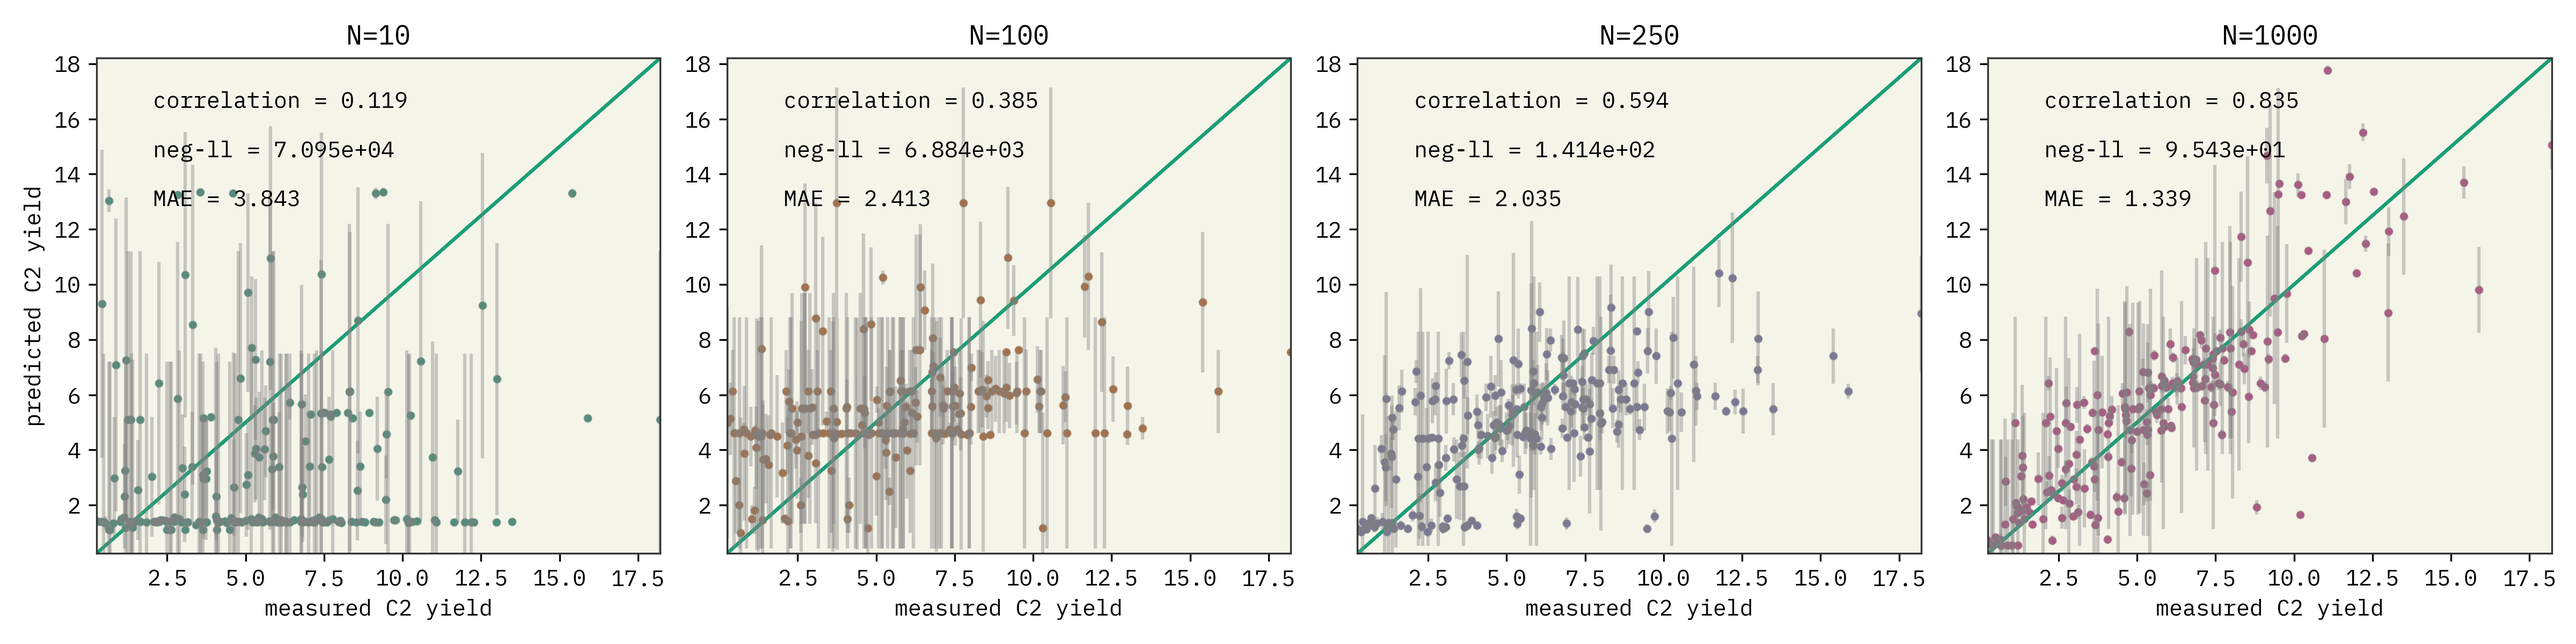
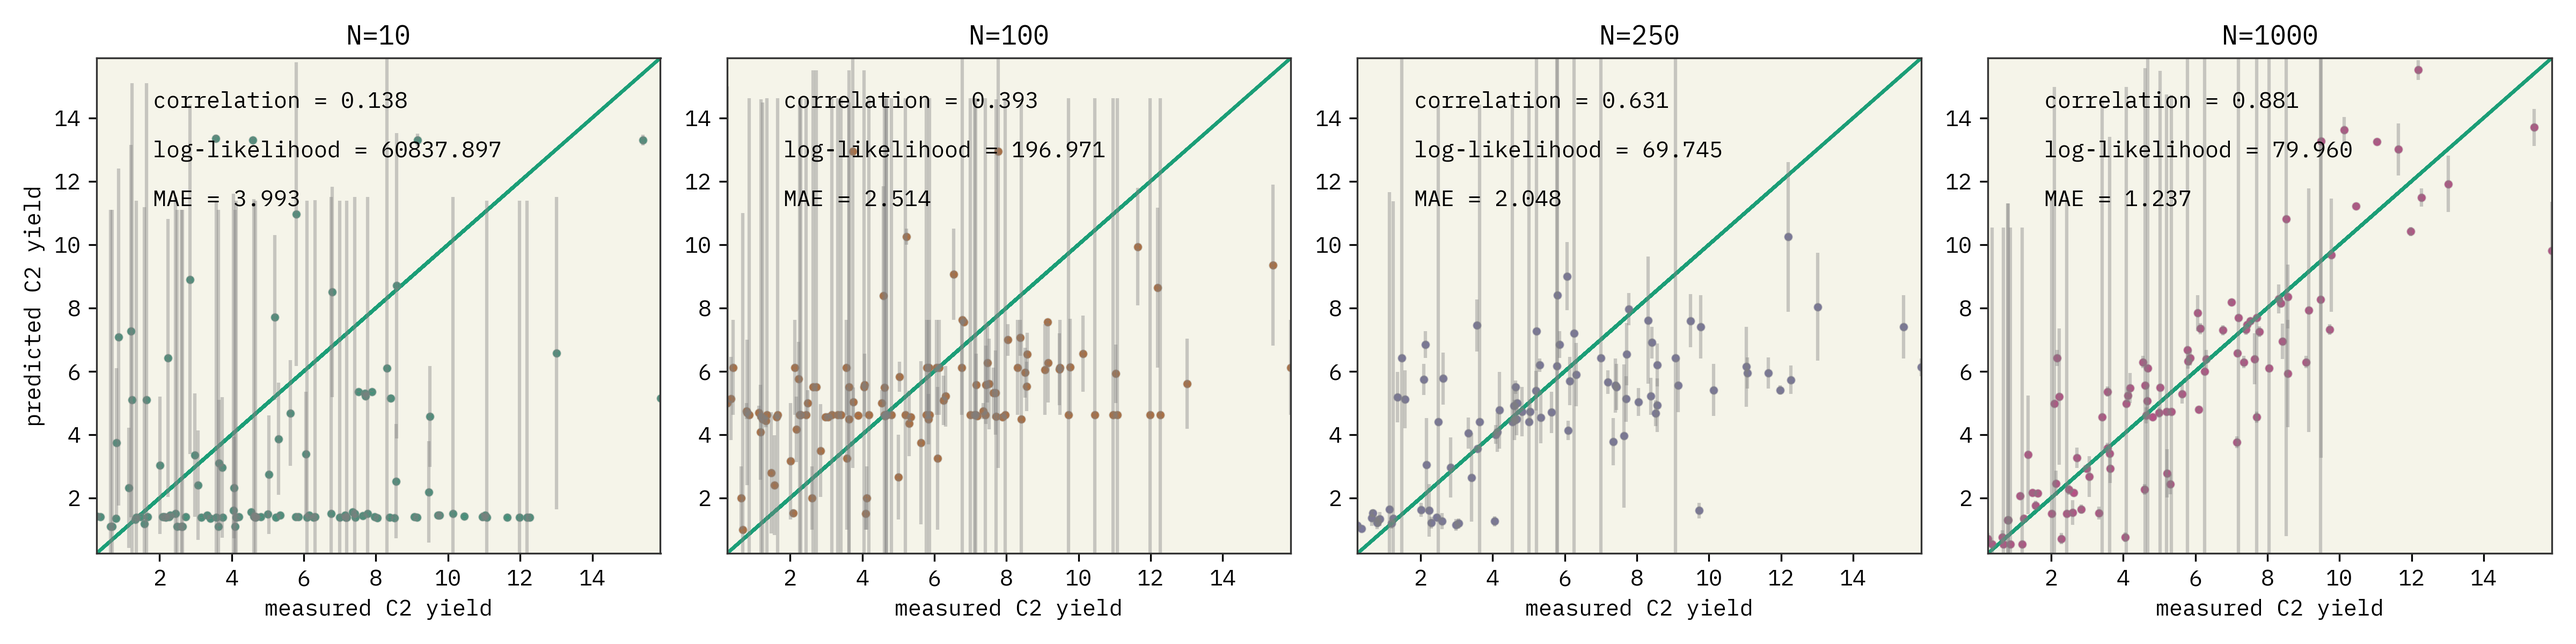
update ablation_results and plots

diff --git a/bolift/asktellGPR.py b/bolift/asktellGPR.py
@@ -98,16 +98,16 @@ class AskTellGPR(AskTellFewShotTopk):
     def _predict(self, X):
         if(len(X) == 0):
             raise ValueError("X is empty")
-        embedding=self._query_cache(X)
-        # embedding = np.array(self._embedding.embed_documents(X, 250))
+        # embedding=self._query_cache(X)
+        embedding = np.array(self._embedding.embed_documents(X, 250))
         results = []
         means, stds = self.regressor.predict(embedding, return_std=True)
         results = [GaussDist(mean, std) for mean, std in zip(means, stds)]
         return results, 0
 
     def _train(self, X, y):
-        embedding=self._query_cache(X)
-        # embedding = np.array(self._embedding.embed_documents(X, 250))
+        # embedding=self._query_cache(X)
+        embedding = np.array(self._embedding.embed_documents(X, 250))
         self.regressor.fit(embedding, list(map(float, y)))
 
 
